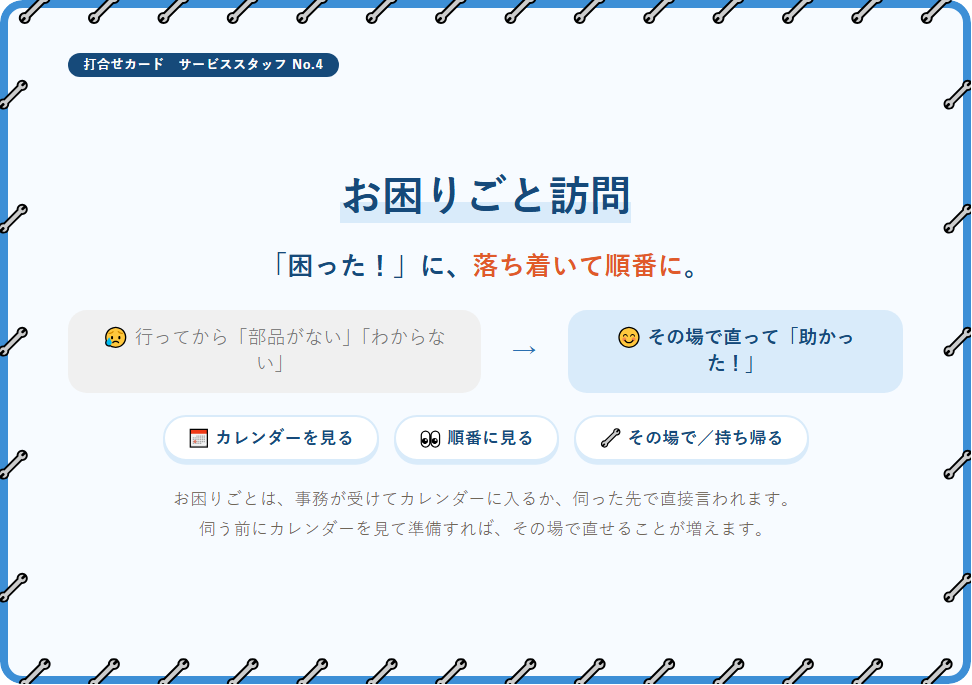
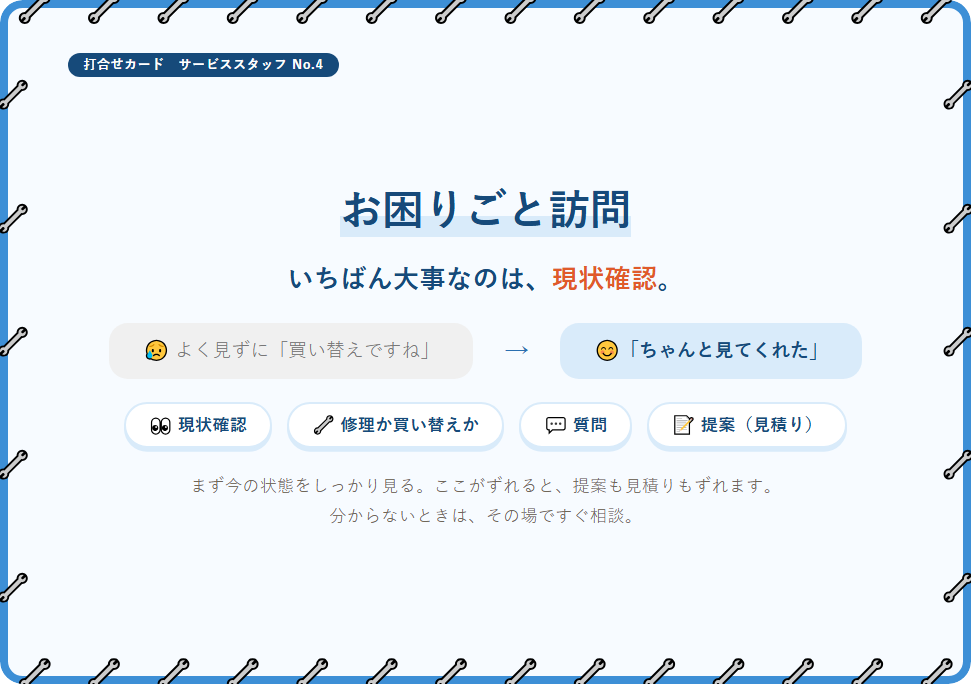
サービスNo.4：現状確認→修理か買い替えか→質問→提案（見積り）→成約、いちばん大事なのは現状確認
Claude-Session: https://claude.ai/code/session_01SZNrdcyrN7aKEt1o21LvYk

diff --git a/card-service-4.html b/card-service-4.html
@@ -6,7 +6,7 @@
 <title>打合せカード4 お困りごと訪問｜ヤハタ電機商会</title>
 <meta property="og:type" content="website">
 <meta property="og:title" content="サービススタッフカード　お困りごと訪問">
-<meta property="og:description" content="「困った！」に、落ち着いて順番に。">
+<meta property="og:description" content="いちばん大事なのは、現状確認。">
 <meta property="og:image" content="https://yahatadennki.github.io/report/img/card-service-4.png">
 <meta property="og:url" content="https://yahatadennki.github.io/report/card-service-4.html">
 <meta name="twitter:card" content="summary_large_image">
@@ -101,10 +101,10 @@
   <div class="top"><span class="no">打合せカード　サービススタッフ No.4</span><span></span></div>
   <div class="front">
     <h1><em>お困りごと訪問</em></h1>
-    <p class="msg">「困った！」に、<b>落ち着いて順番に</b>。</p>
-    <div class="vs"><div class="ng">😥 行ってから「部品がない」「わからない」</div><div class="ar">→</div><div class="ok">😊 その場で直って「助かった！」</div></div>
-    <div class="chips"><span>📅 カレンダーを見る</span><span>👀 順番に見る</span><span>🔧 その場で／持ち帰る</span></div>
-    <p class="one">お困りごとは、事務が受けてカレンダーに入るか、伺った先で直接言われます。<br>伺う前にカレンダーを見て準備すれば、その場で直せることが増えます。</p>
+    <p class="msg">いちばん大事なのは、<b>現状確認</b>。</p>
+    <div class="vs"><div class="ng">😥 よく見ずに「買い替えですね」</div><div class="ar">→</div><div class="ok">😊「ちゃんと見てくれた」</div></div>
+    <div class="chips"><span>👀 現状確認</span><span>🔧 修理か買い替えか</span><span>💬 質問</span><span>📝 提案（見積り）</span></div>
+    <p class="one">まず今の状態をしっかり見る。ここがずれると、提案も見積りもずれます。<br>分からないときは、その場ですぐ相談。</p>
   </div>
 </div>
 
@@ -119,13 +119,13 @@
   <div class="back">
     <div class="box">
       <h2>お困りごと訪問の流れ</h2>
-      <div class="roles sm"><div class="role" style="--rc:#d9ebfa;--rk:#164a7a"><span class="e">📅</span><div><div class="n">カレンダーを見る</div><div class="x">事務が受けた症状・いつから・何年目か。訪問先で言われたら、その場で聞く</div></div></div><div class="role" style="--rc:#dcefd2;--rk:#2b5a1e"><span class="e">🎒</span><div><div class="n">準備する</div><div class="x">お困りごとのカードを見て、持ち物をそろえる</div></div></div><div class="role" style="--rc:#fff1c2;--rk:#7a4d10"><span class="e">👀</span><div><div class="n">順番に見る</div><div class="x">かんたんなところから（電源→リモコン→本体）</div></div></div><div class="role" style="--rc:#e8dcf7;--rk:#4a2a78"><span class="e">🔧</span><div><div class="n">その場で直す</div><div class="x">電池・設定・掃除で直るものは、その場で</div></div></div><div class="role" style="--rc:#fde2cc;--rk:#7a3a0e"><span class="e">📋</span><div><div class="n">持ち帰る</div><div class="x">修理・買い替えは見積へ。工事が要るものは工事スタッフへ</div></div></div></div>
+      <div class="roles sm"><div class="role" style="--rc:#d9ebfa;--rk:#164a7a"><span class="e">👀</span><div><div class="n">現状確認</div><div class="x">今の状態を見る。分からないときは、すぐ相談</div></div></div><div class="role" style="--rc:#dcefd2;--rk:#2b5a1e"><span class="e">🔧</span><div><div class="n">修理か買い替えか</div><div class="x">直せるか。年数・部品・費用で考える</div></div></div><div class="role" style="--rc:#fff1c2;--rk:#7a4d10"><span class="e">💬</span><div><div class="n">質問</div><div class="x">使い方・使う時間・困っていることを聞く</div></div></div><div class="role" style="--rc:#e8dcf7;--rk:#4a2a78"><span class="e">📝</span><div><div class="n">提案（見積り）</div><div class="x">お客様に合うものを、見積りで出す</div></div></div><div class="role" style="--rc:#fde2cc;--rk:#7a3a0e"><span class="e">🤝</span><div><div class="n">成約</div><div class="x">決まったら、見積書で成約に</div></div></div></div>
 
     </div>
     <div class="box">
       <h2>毎回やること</h2>
-      <div class="memo"><b>💬 結果を、お客様にひと言で</b><p>「ここが原因でした」「こうしましょう」</p></div>
-      <ul class="vals"><li>📸 型番の銘板を写真に残す</li><li>📝 日報に、症状と対応を書く</li><li>🔁 次の点検の時期も伝える</li></ul>
+      <div class="memo"><b>📅 伺う前に、カレンダーを見る</b><p>事務が受けた内容を確かめてから出発。</p></div>
+      <ul class="vals"><li>📞 分からないことは、その場で相談</li><li>📸 型番の銘板を写真に残す</li><li>📝 日報に、症状と対応を書く</li></ul>
 
     </div>
   </div>

diff --git a/tools/cards-data.js b/tools/cards-data.js
@@ -780,19 +780,19 @@ module.exports = [
         vals:['① 搬入経路の確認（通路・ドア・階段）','② 養生（床と角、設置場所にマット）','③ 古いものを先に運び出す','④ 搬入・設置（倒してもうしろに当たらない）','⑤ 付属品の確認（すき間まで見る）','⑥ 一緒に座って動かす → 片付け'] }
 },
 { no:4, who:'service', title:'お困りごと訪問',
-  why:{ msg:'「困った！」に、<b>落ち着いて順番に</b>。',
-        ng:'😥 行ってから「部品がない」「わからない」', ok:'😊 その場で直って「助かった！」',
-        chips:['📅 カレンダーを見る','👀 順番に見る','🔧 その場で／持ち帰る'],
-        one:'お困りごとは、事務が受けてカレンダーに入るか、伺った先で直接言われます。<br>伺う前にカレンダーを見て準備すれば、その場で直せることが増えます。' },
+  why:{ msg:'いちばん大事なのは、<b>現状確認</b>。',
+        ng:'😥 よく見ずに「買い替えですね」', ok:'😊「ちゃんと見てくれた」',
+        chips:['👀 現状確認','🔧 修理か買い替えか','💬 質問','📝 提案（見積り）'],
+        one:'まず今の状態をしっかり見る。ここがずれると、提案も見積りもずれます。<br>分からないときは、その場ですぐ相談。' },
   how:{ h:'お困りごと訪問の流れ',
-        roles:[ {ic:'📅',n:'カレンダーを見る',t:'事務が受けた症状・いつから・何年目か。訪問先で言われたら、その場で聞く',bg:'#d9ebfa',k:'#164a7a'},
-                {ic:'🎒',n:'準備する',t:'お困りごとのカードを見て、持ち物をそろえる',bg:'#dcefd2',k:'#2b5a1e'},
-                {ic:'👀',n:'順番に見る',t:'かんたんなところから（電源→リモコン→本体）',bg:'#fff1c2',k:'#7a4d10'},
-                {ic:'🔧',n:'その場で直す',t:'電池・設定・掃除で直るものは、その場で',bg:'#e8dcf7',k:'#4a2a78'},
-                {ic:'📋',n:'持ち帰る',t:'修理・買い替えは見積へ。工事が要るものは工事スタッフへ',bg:'#fde2cc',k:'#7a3a0e'} ] },
+        roles:[ {ic:'👀',n:'現状確認',t:'今の状態を見る。分からないときは、すぐ相談',bg:'#d9ebfa',k:'#164a7a'},
+                {ic:'🔧',n:'修理か買い替えか',t:'直せるか。年数・部品・費用で考える',bg:'#dcefd2',k:'#2b5a1e'},
+                {ic:'💬',n:'質問',t:'使い方・使う時間・困っていることを聞く',bg:'#fff1c2',k:'#7a4d10'},
+                {ic:'📝',n:'提案（見積り）',t:'お客様に合うものを、見積りで出す',bg:'#e8dcf7',k:'#4a2a78'},
+                {ic:'🤝',n:'成約',t:'決まったら、見積書で成約に',bg:'#fde2cc',k:'#7a3a0e'} ] },
   what:{ h:'毎回やること',
-        memo:['💬 結果を、お客様にひと言で','「ここが原因でした」「こうしましょう」'],
-        vals:['📸 型番の銘板を写真に残す','📝 日報に、症状と対応を書く','🔁 次の点検の時期も伝える'] }
+        memo:['📅 伺う前に、カレンダーを見る','事務が受けた内容を確かめてから出発。'],
+        vals:['📞 分からないことは、その場で相談','📸 型番の銘板を写真に残す','📝 日報に、症状と対応を書く'] }
 },
 { no:1, who:'trouble', title:'テレビがつかない・映らない',
   why:{ msg:'カレンダーを見て、<b>順番に</b>見る。',
